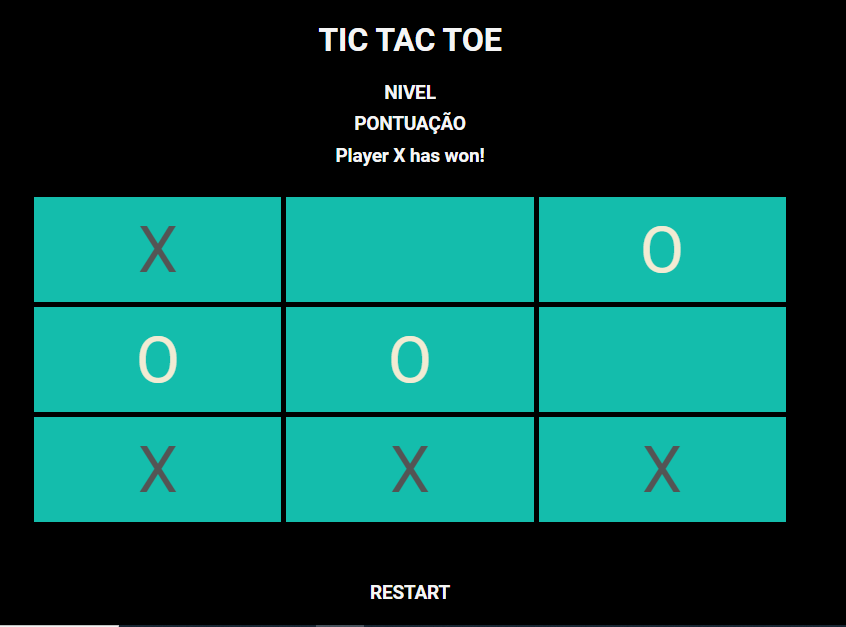
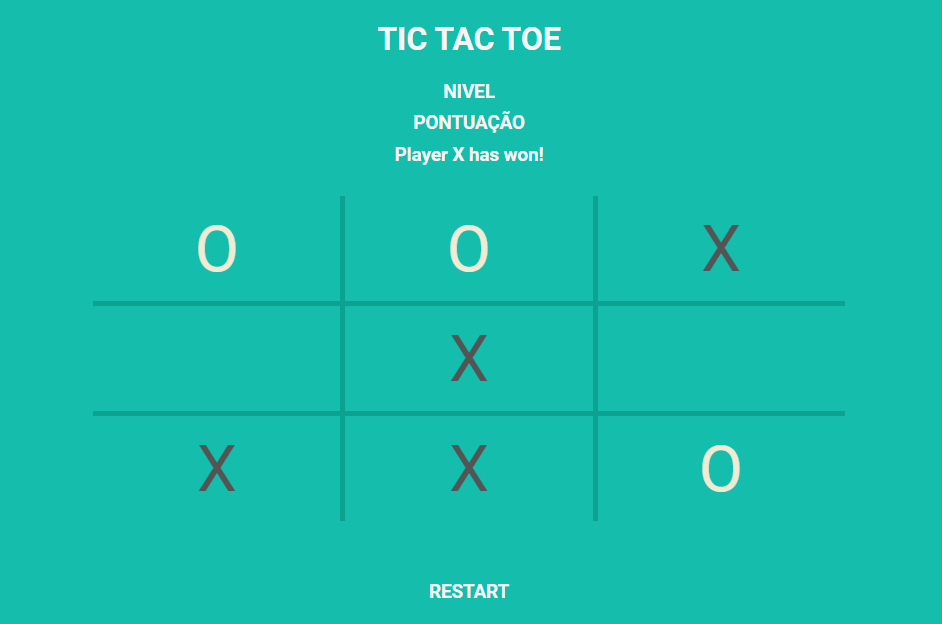
Update tic-tac-toe.png

diff --git a/style.css b/style.css
@@ -10,7 +10,7 @@ body {
 }
 
 .game-container {
-    background-color: black;
+    background-color: #14BDAC;
     width: 100vw;
     height: 100vh;
     display: grid;
@@ -26,7 +26,7 @@ h3 {
 }
 
 .game-grid {
-    background-color: black;
+    background-color: #0DA192;
     width: 55%;
     height: 80%;
     display: grid;
